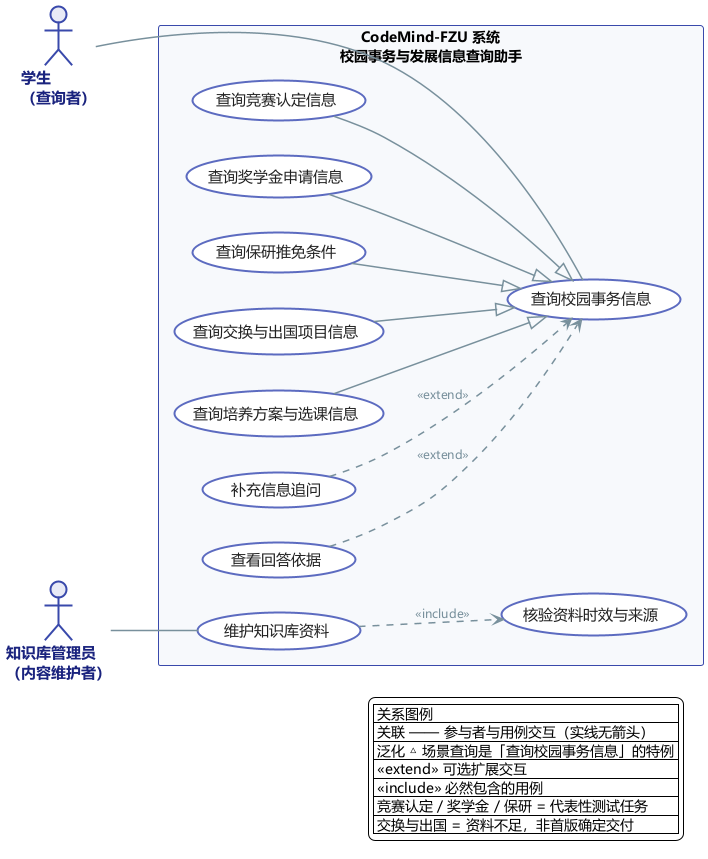
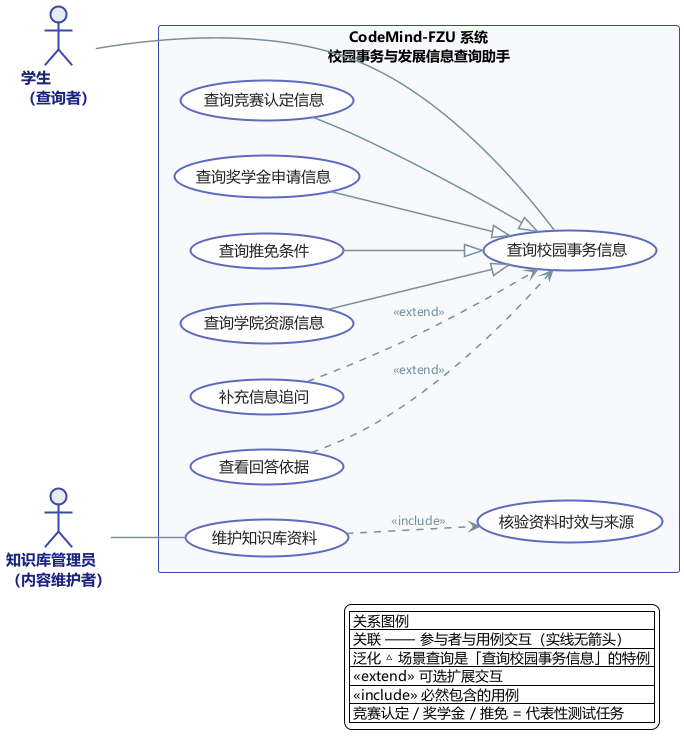
docs: 用例严格对齐整体功能蓝图五大方向，移除交换与出国（颜俊宇）
- 查询类用例收敛为对齐蓝图前四方向：竞赛认定、奖学金申请、推免条件、学院资源信息
- 移除「交换与出国」「培养方案与选课」用例（蓝图升学与就业方向无交换出国）
- 用例数量：1 个抽象基用例 + 8 个具体用例
- 版本号 v3.2，删除所有「交换与出国资料不足」相关表述

diff --git a/docs/assignment-02/system-design/diagrams/uml/use-case/系统用例规约_颜俊宇_v3.md b/docs/assignment-02/system-design/diagrams/uml/use-case/系统用例规约_颜俊宇_v3.md
@@ -2,8 +2,8 @@
 
 **项目**：CodeMind-FZU（福州大学计算机学院本科生的校园事务与发展信息查询助手）
 **负责人**：颜俊宇
-**版本**：v3.1
-**日期**：2026-11-08
+**版本**：v3.2
+**日期**：2026-11-09
 
 ---
 
@@ -11,9 +11,19 @@
 
 本系统（CodeMind-FZU）的职责边界是：**为学院本科生提供有官方来源、可追溯的校园事务与发展政策信息查询**。系统不替代学校/学院的官方发布渠道，也不做个性化升学规划、个人成长档案、动态机会推送及经验帖类 UGC 内容。
 
-整体规划五大业务方向：政策与事务办理、升学与就业发展、竞赛与科研信息、学院资源导航、个人成长档案与长期规划。**首版（v1.0）优先支持前四个方向中有官方资料依据的查询与导航**；第五个方向（个人成长档案与长期规划）为后续迭代，不纳入首版必要交付。
+整体规划五大业务方向，对应首版（v1.0）的查询目标如下：
 
-**三个代表性测试任务**——竞赛认定（类别及证明材料）、奖学金申请（条件与流程）、推免基本条件——仅用于验证共用的 Agent 流程，不代表业务方向数量。**交换与出国交流属于「升学与就业发展」方向下的具体事项，目前资料不足，不作为首版确定交付**。
+| 业务方向 | 首版（v1.0）范围 |
+|---|---|
+| 政策与事务办理 | 官方资料查询（奖学金、评优、申请条件与办理流程） |
+| 升学与就业发展 | 推免规则查询（推免政策、升学要求、发展规划） |
+| 竞赛与科研信息 | 竞赛认定查询（竞赛认定、赛事信息、科研机会） |
+| 学院资源导航 | 学院官方资料查询（实验室、导师方向、本科生科研资源） |
+| 个人成长档案与长期规划 | v2.0 及以后，后续迭代方向 |
+
+**首版优先支持前四个方向中有官方资料依据的查询与导航**；第五个方向（个人成长档案与长期规划）为后续迭代，不纳入首版必要交付。
+
+**三个代表性测试任务**——竞赛认定（类别及证明材料）、奖学金申请（条件与流程）、推免基本条件——仅用于验证共用的 Agent 流程，不代表业务方向数量。
 
 ## 二、参与者（角色）
 
@@ -26,21 +36,20 @@
 
 ## 三、用例清单（用户目标层）
 
-| 编号 | 用例名称 | 参与者 | 首版定位 |
+| 编号 | 用例名称 | 参与者 | 对应业务方向 |
 |---|---|---|---|
-| UC-01 | 查询竞赛认定信息 | 学生（查询者） | 代表性测试任务 |
-| UC-02 | 查询奖学金申请信息 | 学生（查询者） | 代表性测试任务 |
-| UC-03 | 查询保研推免条件 | 学生（查询者） | 代表性测试任务 |
-| UC-04 | 查询交换与出国项目信息 | 学生（查询者） | 资料不足，非首版确定交付 |
-| UC-05 | 查询培养方案与选课信息 | 学生（查询者） | 首版优先查询 |
-| UC-06 | 维护知识库资料 | 知识库管理员 | 首版核心 |
-| UC-07 | 核验资料时效与来源 | 知识库管理员 | 首版核心 |
-| UC-08 | 补充信息追问 | 学生（查询者） | 可选扩展交互 |
-| UC-09 | 查看回答依据 | 学生（查询者） | 可选扩展交互 |
+| UC-01 | 查询竞赛认定信息 | 学生（查询者） | 竞赛与科研信息 |
+| UC-02 | 查询奖学金申请信息 | 学生（查询者） | 政策与事务办理 |
+| UC-03 | 查询推免条件 | 学生（查询者） | 升学与就业发展 |
+| UC-04 | 查询学院资源信息 | 学生（查询者） | 学院资源导航 |
+| UC-05 | 维护知识库资料 | 知识库管理员 | 知识底座 |
+| UC-06 | 核验资料时效与来源 | 知识库管理员 | 知识底座 |
+| UC-07 | 补充信息追问 | 学生（查询者） | 共用交互 |
+| UC-08 | 查看回答依据 | 学生（查询者） | 共用交互 |
 
-> 说明一：UC-08「补充信息追问」、UC-09「查看回答依据」是查询类用例的**扩展用例**（`extend`），在特定条件下从基用例「查询校园事务信息」扩展，属于可选交互。
+> 说明一：UC-07「补充信息追问」、UC-08「查看回答依据」是查询类用例的**扩展用例**（`extend`），在特定条件下从基用例「查询校园事务信息」扩展，属于可选交互。
 >
-> 说明二：UC-01、UC-02、UC-03 是验证共用 Agent 流程的**三个代表性测试任务**；UC-04「交换与出国项目信息」属于升学与就业方向下的具体事项，当前资料不足，不作为首版确定交付，用例保留用于表达完整目标范围。
+> 说明二：UC-01、UC-02、UC-03 是验证共用 Agent 流程的**三个代表性测试任务**。
 
 ---
 
@@ -65,14 +74,14 @@
   - **4a. 查看依据**：学生点击查看回答所引用的来源部门、日期、链接与核验状态。
 - **后置条件**：学生获得有来源可核对的回答，或明确的「无法作答」提示及线下核实建议。
 
-### UC-03 查询保研推免条件
+### UC-03 查询推免条件
 
 - **编号**：UC-03
 - **参与者**：学生（查询者）
-- **前置条件**：知识库已收录推免/保研政策及学院实施细则。
-- **触发事件**：学生询问保研/推免的硬性条件、成绩门槛或加分项。
+- **前置条件**：知识库已收录推免政策及学院实施细则。
+- **触发事件**：学生询问推免的硬性条件、成绩门槛或加分项。
 - **主成功场景**：
-  1. 学生输入保研条件问题；
+  1. 学生输入推免条件问题；
   2. 系统检索推免政策与学院实施细则；
   3. 系统核验资料时效（区分「最新政策」与「历史政策」）；
   4. 系统展示成绩门槛、加分项、关键时间节点，并附来源；
@@ -80,18 +89,35 @@
 - **扩展流程**：
   - **1a. 信息不足**：缺少年级/专业/成绩排名 → 追问后继续。
   - **3a. 政策未更新**：仅有历史政策 → 明确标注「可能已更新，以最新通知为准」。
-- **后置条件**：学生获得保研硬性条件的明确答案及来源，并了解自身条件与政策要求的差异。
+- **后置条件**：学生获得推免硬性条件的明确答案及来源，并了解自身条件与政策要求的差异。
 
-### UC-06 维护知识库资料
+### UC-04 查询学院资源信息
 
-- **编号**：UC-06
+- **编号**：UC-04
+- **参与者**：学生（查询者）
+- **前置条件**：知识库已收录学院官方资源资料（实验室、导师方向、本科生科研资源等）。
+- **触发事件**：学生询问实验室方向、导师研究领域、本科生科研机会或培养方案、办事渠道等资源信息。
+- **主成功场景**：
+  1. 学生输入学院资源相关问题；
+  2. 系统检索学院官方资源资料；
+  3. 系统核验资料来源与时效；
+  4. 系统展示资源信息与办事渠道，并附来源；
+  5. 学生获得有来源、可追溯的资源导航信息。
+- **扩展流程**：
+  - **1a. 信息不足**：缺少具体方向/专业 → 追问后继续。
+  - **3a. 证据不足**：未检索到相关官方资料 → 如实说明并建议线下咨询学院。
+- **后置条件**：学生获得学院资源的查询与导航信息及来源。
+
+### UC-05 维护知识库资料
+
+- **编号**：UC-05
 - **参与者**：知识库管理员（内容维护者）
 - **前置条件**：管理员已登录并具有知识库维护权限。
 - **触发事件**：新资料发布，或现有资料需要更新/归档。
 - **主成功场景**：
   1. 管理员新增、更新或归档资料；
   2. 管理员补充资料的来源部门、发布日期、链接；
-  3. 管理员执行「核验资料时效与来源」（UC-07，必然包含）；
+  3. 管理员执行「核验资料时效与来源」（UC-06，必然包含）；
   4. 系统为通过核验的资料构建索引（Chroma 与 BM25 双索引，统一 versionId=vN）；
   5. 系统执行质量闸门（QualityGate）与离线 PoC 测试（PoCTestSuite），确认双索引均通过（PASS）；
   6. 人工审核通过后，由 IndexPublisher 提交版本，VersionRegistry 原子切换活动版本；
@@ -102,9 +128,9 @@
   - **6a. 发布失败**：版本切换失败 → 回滚并保留上一版活动索引，AgentQueryGateway 始终只读取完整发布版本。
 - **后置条件**：只有通过审核、测试通过的完整索引版本才切换上线；知识库内容更新且可被查询类用例检索，失败时上一版索引仍可用。
 
-### UC-07 核验资料时效与来源
+### UC-06 核验资料时效与来源
 
-- **编号**：UC-07
+- **编号**：UC-06
 - **参与者**：知识库管理员（内容维护者）
 - **前置条件**：存在待核验的知识库资料。
 - **主成功场景**：
@@ -114,9 +140,9 @@
   4. 系统更新资料核验状态，过期资料标记为历史参考。
 - **后置条件**：资料具有明确的核验状态与时效标记，作为后续索引构建与发布的前置输入，支撑「回答可追溯」原则。
 
-### UC-08 补充信息追问（扩展用例）
+### UC-07 补充信息追问（扩展用例）
 
-- **编号**：UC-08
+- **编号**：UC-07
 - **参与者**：学生（查询者）
 - **前置条件**：学生已发起查询（基用例「查询校园事务信息」执行中）。
 - **触发条件**：系统判断信息不足（如缺少年级、专业、目标用途、具体竞赛名称），无法给出精准回答。
@@ -126,9 +152,9 @@
   3. 系统据此组织更精准的回答。
 - **后置条件**：补充的信息用于本次回答（信息最小化，不额外留存），回答精度提升。
 
-### UC-09 查看回答依据（扩展用例）
+### UC-08 查看回答依据（扩展用例）
 
-- **编号**：UC-09
+- **编号**：UC-08
 - **参与者**：学生（查询者）
 - **前置条件**：学生已获得回答（基用例「查询校园事务信息」执行中）。
 - **触发条件**：学生想核实回答的官方来源。
@@ -143,16 +169,16 @@
 ## 五、关系说明
 
 - **关联**：学生（查询者）与「查询校园事务信息」关联；知识库管理员与「维护知识库资料」关联。
-- **泛化**：5 个查询类用例（竞赛认定、奖学金申请、保研推免条件、交换与出国项目信息、培养方案与选课信息）是抽象基用例「查询校园事务信息」的特例（空心三角实线）。
+- **泛化**：4 个查询类用例（竞赛认定、奖学金申请、推免条件、学院资源信息）是抽象基用例「查询校园事务信息」的特例（空心三角实线）。
 - **扩展（extend）**：「补充信息追问」「查看回答依据」在特定条件下从「查询校园事务信息」扩展，属于可选交互。
 - **包含（include）**：「维护知识库资料」**必然包含**「核验资料时效与来源」——核验是维护与索引发布流程的必要环节。
 
 ### 用例数量说明
 
-用例图共包含 **1 个抽象基用例 + 9 个具体用例**：
+用例图共包含 **1 个抽象基用例 + 8 个具体用例**：
 
-- 抽象基用例：`查询校园事务信息`（仅用于统一 5 个查询类用例的泛化关系，不独立计数为交付功能）；
-- 具体用例 9 个：UC-01 ~ UC-09，其中学生侧 7 个（5 个查询目标 + 2 个扩展交互）、知识库管理员侧 2 个。
+- 抽象基用例：`查询校园事务信息`（仅用于统一 4 个查询类用例的泛化关系，不独立计数为交付功能）；
+- 具体用例 8 个：UC-01 ~ UC-08，其中学生侧 6 个（4 个查询目标 + 2 个扩展交互）、知识库管理员侧 2 个。
 
 ---
 

diff --git a/docs/assignment-02/system-design/diagrams/uml/use-case/README.md b/docs/assignment-02/system-design/diagrams/uml/use-case/README.md
@@ -4,29 +4,37 @@
 
 ## 内容
 
-本目录包含 CodeMind-FZU 系统的 UML 用例设计成果（v3.1）。
+本目录包含 CodeMind-FZU 系统的 UML 用例设计成果（v3.2）。
 
 建模遵循原则：**先定边界 → 再定参与者（角色）→ 用例 = 用户目标（用户目标层）→ 关系能少则少**，同时覆盖作业要求的全部交互。
 
 - 系统边界：为学院本科生提供有官方来源、可追溯的校园事务与发展政策信息查询；
 - 参与者（角色）：学生（查询者）、知识库管理员（内容维护者）；
-- 用例：**1 个抽象基用例 + 9 个具体用例**（见下方「用例数量说明」）；
-- 关系：5 条泛化 + 2 条 extend + 1 条 include；
+- 用例：**1 个抽象基用例 + 8 个具体用例**（见下方「用例数量说明」）；
+- 关系：4 条泛化 + 2 条 extend + 1 条 include；
 - 关键用例已配规约。
 
-## 业务范围口径（对照 PR #2、#3）
+## 业务范围口径（对齐整体功能蓝图）
 
-- 整体五大业务方向：政策与事务办理、升学与就业发展、竞赛与科研信息、学院资源导航、个人成长档案与长期规划；
+整体五大业务方向，对应首版（v1.0）查询目标：
+
+| 业务方向 | 首版（v1.0）范围 |
+|---|---|
+| 政策与事务办理 | 官方资料查询（奖学金、评优、申请条件与办理流程） |
+| 升学与就业发展 | 推免规则查询（推免政策、升学要求、发展规划） |
+| 竞赛与科研信息 | 竞赛认定查询（竞赛认定、赛事信息、科研机会） |
+| 学院资源导航 | 学院官方资料查询（实验室、导师方向、本科生科研资源） |
+| 个人成长档案与长期规划 | v2.0 及以后，后续迭代方向 |
+
 - 首版优先支持前四个方向中有官方资料依据的查询与导航，第五个方向为后续迭代；
-- **三个代表性测试任务**：竞赛认定、奖学金申请、推免基本条件，仅用于验证共用 Agent 流程，不代表业务方向数量；
-- **交换与出国交流**属于「升学与就业发展」方向下的具体事项，资料不足，不作为首版确定交付。
+- **三个代表性测试任务**：竞赛认定、奖学金申请、推免基本条件，仅用于验证共用 Agent 流程，不代表业务方向数量。
 
 ## 用例数量说明
 
-用例图共 **1 个抽象基用例 + 9 个具体用例**：
+用例图共 **1 个抽象基用例 + 8 个具体用例**：
 
-- 抽象基用例 `查询校园事务信息`：仅用于统一 5 个查询类用例的泛化关系，不独立计数为交付功能；
-- 具体用例 9 个（UC-01 ~ UC-09）：学生侧 7 个（5 个查询目标 + 2 个扩展交互）、知识库管理员侧 2 个。
+- 抽象基用例 `查询校园事务信息`：仅用于统一 4 个查询类用例的泛化关系，不独立计数为交付功能；
+- 具体用例 8 个（UC-01 ~ UC-08）：学生侧 6 个（4 个查询目标 + 2 个扩展交互）、知识库管理员侧 2 个。
 
 ## 文件清单
 
@@ -40,6 +48,6 @@
 ## 设计要点
 
 - **参与者是角色，不是部门**：学生（查询者）、知识库管理员（内容维护者）。
-- **用例是目标，不是功能点**：5 个查询类用例是「查询校园事务信息」的特例（泛化）；「补充信息追问」「查看回答依据」是可选扩展交互（extend）。
-- **关系克制**：泛化 5 条（查询特例）、extend 2 条（可选交互）、include 1 条（核验是维护与索引发布的必然环节）。
+- **用例是目标，不是功能点**：4 个查询类用例是「查询校园事务信息」的特例（泛化）；「补充信息追问」「查看回答依据」是可选扩展交互（extend）。
+- **关系克制**：泛化 4 条（查询特例）、extend 2 条（可选交互）、include 1 条（核验是维护与索引发布的必然环节）。
 - **知识库维护闭环**：核验 → 双索引构建 → 质量闸门 → 离线测试 → 人工审核 → 原子切换发布，失败保留上一版可用索引。
